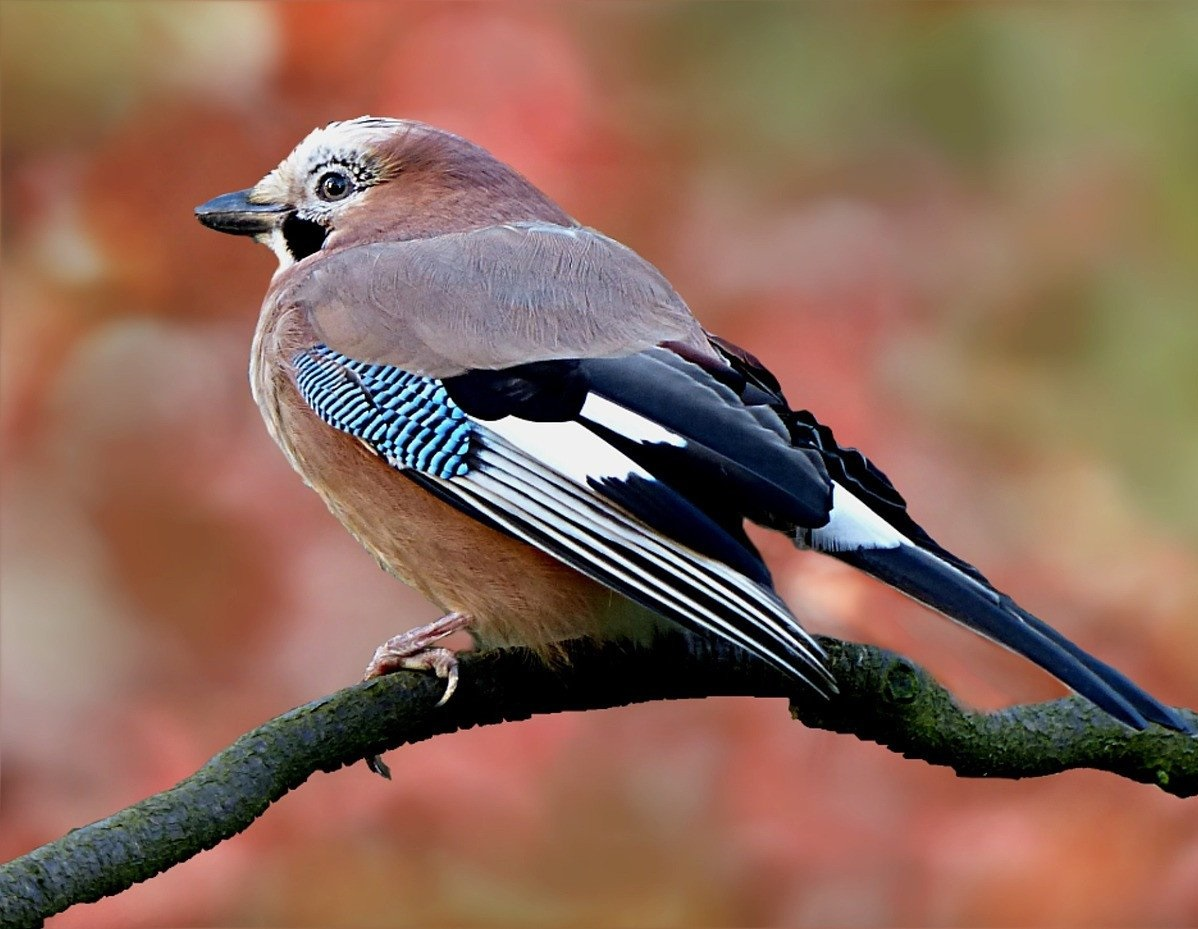
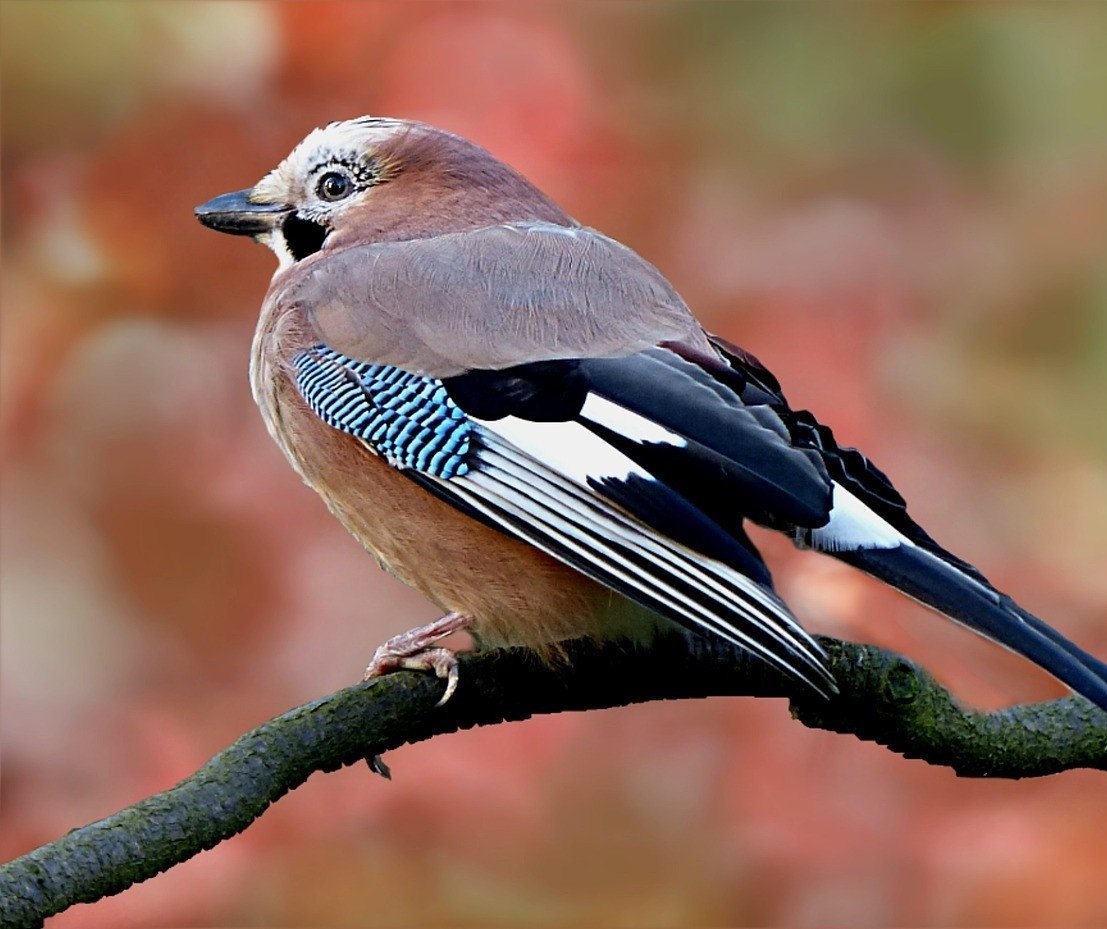
zmiana interfejsu na język polski

diff --git a/config.js b/config.js
@@ -4,121 +4,121 @@ export const BIRDS = [
         name: 'Skowronek',
         latinName: 'Alauda arvensis',
         photo: require('~/assets/birdPhotos/skowronek.jpg'),
-        desc: "Jest jednym najbardziej znanych ptaków. Rozpoznawalność zawdzięcza powszechności występowania oraz donośnemu śpiewowi, który rozbrzmiewa niemal nad każdym polem przez całą wiosnę.",
+        desc: "Jest jednym najbardziej znanych ptaków. Rozpoznawalność zawdzięcza powszechności występowania oraz donośnemu śpiewowi, który rozbrzmiewa niemal nad każdym polem przez całą wiosnę. Długość ciała skowronka to 18-19 cm. Skromnie ubarwiony ptak nieco większy od wróbla. Upierzenie brunatnoszare, ciemno plamkowane z wierzchu, spód białawy z kreskowaną piersią. Jego śpiew to przepiękna melodia złożona z wielu zawiłych zwrotek. Swoje granie rozpoczyna nie od razu po starcie z ziemi. Śpiew słychać dopiero na wysokości około 10-20 metrów. Wówczas zawisa w powietrzu, a następnie po wykonaniu całego repertuaru, jaki miał zaplanowany, wznosi się jeszcze wyżej i, co ciekawe, dalej śpiewa. Właśnie ta umiejętność, śpiewania na wdechu oraz wydechu, pozwala mu wznosić się nawet na 100 – 200 metrów.",
     },
     {
         name: 'Krzyżówka',
         latinName: 'Anas platyrhynchos',
         photo: require('~/assets/birdPhotos/krzyżówka.jpg'),
-        desc: "Gatunek dużego ptaka wodnego z rodziny kaczkowatych. Jest to najpospolitszy i najszerzej rozpowszechniony gatunek kaczki.",
+        desc: "Gatunek dużego ptaka wodnego z rodziny kaczkowatych (Anatidae). Jest to najpospolitszy i najszerzej rozpowszechniony gatunek kaczki. Zasiedla większość półkuli północnej, ale została introdukowana do południowo-wschodniej Australii oraz na Nową Zelandię. Nie jest zagrożona. W Polsce gatunek łowny w okresie od 1 września do 31 grudnia. Od krzyżówki pochodzą kaczki domowe. W locie ujawniają się granatowe, biało obrzeżone na górze i krawędzi skrzydła lusterka. Poza tym obie płcie mają pomarańczowe nogi.",
     },
     {
         name: 'Gęś białoczelna',
         latinName: 'Anser albifrons',
         photo: require('~/assets/birdPhotos/gęś białoczelna.jpg'),
-        desc: "Gatunek dużego, wędrownego ptaka wodnego z rodziny kaczkowatych, zamieszkujący północną Eurazję i Amerykę Północną.",
+        desc: "Gatunek dużego, wędrownego ptaka wodnego z rodziny kaczkowatych (Anatidae), zamieszkujący północną Eurazję i Amerykę Północną. Przeloty w lutym–maju i wrześniu–grudniu. Zimuje w zachodniej i południowej Europie, południowo-zachodniej, południowej i wschodniej Azji, na zachodnich wybrzeżach i południu USA oraz w Meksyku. W Polsce pojawia się licznie podczas przelotów, na północy i zachodzie kraju; zimuje głównie na zachodzie kraju. Daje płodne mieszańce z gęsiami domowymi, np. gęsi pskowskie łyse (łyse – od białej plamy na czole).",
     },
     {
         name: 'Gęś zbożowa',
         latinName: 'Anser fabalis',
         photo: require('~/assets/birdPhotos/gęś zbożowa.jpg'),
-        desc: "Gatunek dużego wędrownego ptaka wodnego z rodziny kaczkowatych. Zamieszkuje tundrę, lasotundrę i tajgę Eurazji.",
+        desc: "Gatunek dużego wędrownego ptaka wodnego z rodziny kaczkowatych (Anatidae). Zamieszkuje tundrę, lasotundrę i tajgę Eurazji. Zimuje plamowo w pasie od zachodniej Europy po Japonię. Nie jest zagrożony wyginięciem. Samiec i samica, a także osobniki młodociane ubarwione są jednakowo. Samce są jednak większe od samic. Ogólnie ubarwiona szarobrązowo, na grzbiecie i bokach poprzeczne jasne prążki. Podogonie i ogon biały. Łapy pomarańczowe, dziób czarny u nasady i na końcu z pomarańczowymi (ich wielkość zależy od podgatunku) plamami. W locie widać z przodu ciemnoszare skrzydła.",
     },
     {
         name: 'Jerzyk',
         latinName: 'Apus apus',
         photo: require('~/assets/birdPhotos/jerzyk.jpg'),
-        desc: "Gatunek średniego ptaka wędrownego z rodziny jerzykowatych. Zamieszkuje niemal całą Europę, dużą część Azji oraz północną Afrykę.",
+        desc: "Gatunek średniego ptaka wędrownego z rodziny jerzykowatych (Apodidae). Zamieszkuje niemal całą Europę, dużą część Azji oraz północną Afrykę. Zimuje w południowej połowie Afryki. W Polsce średnio liczny ptak lęgowy, miejscami liczny. Występuje na terenie całego kraju – najliczniej w dużych miastach. W niektórych częściach kraju, głównie na wschodzie Polski oraz na Mazurach, gnieździ się też w starych lasach (Puszcza Knyszyńska, Puszcza Białowieska, Puszcza Augustowska, Wielkopolski Park Narodowy), a na południu – w skalistych partiach gór: Tatr, Karkonoszy i Gór Bystrzyckich oraz w Ojcowskim Parku Narodowym.",
     },
     {
         name: 'Mewa śmieszka',
         latinName: 'Chroicocephalus ridibundus',
         photo: require('~/assets/birdPhotos/mewa śmieszka.jpg'),
-        desc: "Gatunek średniego, wędrownego ptaka wodnego z rodziny mewowatych. To najpowszechniejsza z małych mew.",
+        desc: "Gatunek średniego, wędrownego ptaka wodnego z rodziny mewowatych (Laridae). To najpowszechniejsza z małych mew. We wszystkich szatach widać biały klin na przednim końcu dłoni. Samiec i samica ubarwione jednakowo. W szacie godowej od marca do sierpnia, a nawet listopada, łatwa do rozpoznania – głowa brązowoczarna, szyja, spód ciała i ogon białe, a grzbiet i skrzydła popielate. Końce lotek czarne, a nogi i dziób czerwone. Wokół oczu mały, wąski, biały pasek, przerwany z przodu.",
     },
     {
         name: 'Kawka',
         latinName: 'Coloeus monedula',
         photo: require('~/assets/birdPhotos/kawka.jpg'),
-        desc: "Gatunek średniej wielkości ptaka synantropijnego z rodziny krukowatych. W Polsce średnio liczny ptak lęgowy.",
+        desc: "Gatunek średniej wielkości ptaka synantropijnego z rodziny krukowatych (Corvidae), blisko spokrewniony z kawką srokatą. Zamieszkuje Eurazję i północno-zachodnią Afrykę. W Polsce średnio liczny ptak lęgowy niżu. Ptak wielkości gołębia, mniejszy niż jakikolwiek gatunek z rodzaju Corvus, do którego kawka jest zaliczana. Obie płcie ubarwione jednakowo. Upierzenie czarne, a boki szyi, głowy i karku łupkowoszare. Na głowie czarna „czapka”. U ptaków młodych tęczówki są brązowawe, u dorosłych zmieniają barwę na srebrzysto-błękitną.",
     },
     {
         name: 'Gołąb skalny',
         latinName: 'Columba livia',
         photo: require('~/assets/birdPhotos/gołąb skalny.jpg'),
-        desc: "Gatunek średniej wielkości ptaka z rodziny gołębiowatych. Żywi się nasionami i odpadkami, bywa też dokarmiany przez ludzi.",
+        desc: "Gatunek ptaka z rodziny gołębiowatych, który w swojej pierwotnej formie zamieszkiwał południową Europę, północną Afrykę oraz zachodnią i centralną Azję. Znany jest z adaptacji do różnorodnych środowisk, obecnie można go spotkać niemal na każdym kontynencie z wyjątkiem Antarktydy. Jego zdolność do przetrwania w różnych warunkach sprawia, że jest jednym z najbardziej rozpowszechnionych ptaków na świecie.",
     },
     {
         name: 'Grzywacz',
         latinName: 'Columba palumbus',
         photo: require('~/assets/birdPhotos/grzywacz.jpg'),
-        desc: "Gatunek średniej wielkości ptaka wędrownego z rodziny gołębiowatych, największy spośród gatunków gołębi występujących w Polsce.",
+        desc: "Gatunek średniej wielkości ptaka wędrownego z rodziny gołębiowatych (Columbidae), największy spośród gatunków gołębi występujących w Polsce. To największy przedstawiciel gołębiowatych w Polsce. Grzywacze to duże gołębie o zaokrąglonej sylwetce i wydatnej piersi. Upierzenie w większości niebieskoszare. Głowa niebieskoszara, na karku widoczna zielono-fioletowa opalizacja. Pióra po bokach szyi ułożone są pasami, co daje wrażenie rowków między rzędami piór; to cecha właściwa wielu ptakom z rodzaju Columba.",
     },
     {
         name: 'Gawron',
         latinName: 'Corvus frugilegus',
         photo: require('~/assets/birdPhotos/gawron.jpg'),
-        desc: "Gatunek dużej wielkości ptaka synantropijnego z rodziny krukowatych. Zamieszkuje niemal całą Europę oraz część Azji.",
+        desc: "Gatunek dużej wielkości ptaka synantropijnego z rodziny krukowatych (Corvidae), zamieszkujący Eurazję. Nie jest zagrożony. Zasiedlił prawie całą Europę, prócz Półwyspu Iberyjskiego, Islandii, północnej Skandynawii i północnej Rosji. Dalej jego areał ciągnie się przez Azję po wybrzeża Oceanu Spokojnego. Populacje z chłodniejszych regionów wykonują regularne migracje na południe – do Środkowej i Zachodniej Europy, najdalej dolatując nad Morze Śródziemne.",
     },
 
     {
         name: 'Kukułka',
         latinName: 'Cuculus canorus',
         photo: require('~/assets/birdPhotos/kukułka.jpg'),
-        desc: "Gatunek średniego ptaka wędrownego z podrodziny kukułek. Jedyny w Europie Środkowej pasożyt lęgowy.",
+        desc: "Gatunek średniego ptaka wędrownego z podrodziny kukułek (Cuculinae) w rodzinie kukułkowatych (Cuculidae). Jedyny w Europie Środkowej pasożyt lęgowy. Zamieszkuje strefę umiarkowaną i zalesioną część Eurazji i Afrykę – od zachodniej Europy i północnej Afryki aż po Kamczatkę i Japonię. W Azji spotykana również na południe od krawędzi strefy tropikalnej. W Europie omija tylko Islandię. W Polsce średnio liczny, ptak lęgowy. Spotkać i usłyszeć można ją na całym niżowym obszarze Polski i w różnych typach krajobrazów – w lasach, zadrzewieniach, na mozaikowo porośniętych drzewami i krzewami terenach rolniczych, ale i w pobliżu trzcinowisk wokół zbiorników wodnych.",
     },
     {
         name: 'Modraszka',
         latinName: 'Cyanistes caeruleus',
         photo: require('~/assets/birdPhotos/modraszka.jpg'),
-        desc: "Gatunek małego, częściowo wędrownego ptaka z rodziny sikor, zamieszkującego całą Europę.",
+        desc: "Gatunek małego, częściowo wędrownego ptaka z rodziny sikor, zamieszkującego całą Europę z wyjątkiem północnej części Skandynawii i północnej Rosji, a także część zachodniej Azji. Przebywa we wszystkich rodzajach lasów, a także parkach, ogrodach i sadach. Nie jest zagrożona wyginięciem, a w większości krajów jest nawet liczna. Łatwo rozpoznawalny ptak o krępej sylwetce i dużej głowie z bardzo krótkim dziobem, przystosowanym do kucia w spróchniałym drewnie, dłubania w korze oraz rozdziobywania nasion i zbierania owadów z liści i kory.",
     },
     {
         name: 'Oknówka',
         latinName: 'Delichon urbicum',
         photo: require('~/assets/birdPhotos/oknówka.jpg'),
-        desc: "Niewielki gatunek ptaka wędrownego z rodziny jaskółkowatych. Rozmnaża się w Europie, zachodniej i środkowej Azji oraz północnej Afryce.",
+        desc: "Niewielki gatunek ptaka wędrownego z rodziny jaskółkowatych (Hirundinidae). Rozmnaża się w Europie, zachodniej i środkowej Azji oraz północnej Afryce, a zimuje w Afryce Subsaharyjskiej oraz południowej i południowo-zachodniej Azji. Żywi się owadami, które złapie w locie. Migruje na obszary, gdzie insekty latające występują obficie. Głowę i wyższe partie ciała ma czarne z niebieskim połyskiem, biały kuper i dolne partie ciała. Występuje zarówno na otwartych terenach, jak i w pobliżu siedzib ludzkich. Z wyglądu jest podobny do dwóch innych gatunków z rodzaju Delichon, które są endemiczne dla wschodniej i południowej Azji. Posiada dwa powszechnie uznawane podgatunki.",
     },
     {
         name: 'Łyska',
         latinName: 'Fulica atra',
         photo: require('~/assets/birdPhotos/łyska.jpg'),
-        desc: "Gatunek średniej wielkości ptaka wodnego z rodziny chruścieli. Zamieszkuje zachodnią i południową Europę.",
+        desc: "Gatunek średniej wielkości ptaka wodnego z rodziny chruścieli (Rallidae). W zachodniej i południowej części zasięgu osiadły i koczujący, północne populacje migrują jesienią na południe lub południowy zachód. Nie jest zagrożony wyginięciem. Brak dymorfizmu płciowego, choć samce są nieco większe od samic. Upierzenie dorosłych łupkowoczarne z nagą, podobnie jak dziób, białą blaszką rogową na czole, od której pochodzi polska nazwa gatunku. Palce otoczone karbowanymi płatkami skórnymi, łuski na nogach zielonosiwej barwy. Młode jaśniejsze z mniejszą i ciemną blaszką na czole, jasnoszarą szyją i piersią, czarnoszarym grzbietem, pisklęta ciemne z żółtą głową, białą brwią, czerwoną plamą na czole, o dziobie czerwonym u nasady, a reszcie białej z czarną kropką na końcu.",
     },
     {
         name: 'Sójka',
         latinName: 'Garrulus glandarius',
         photo: require('~/assets/birdPhotos/sójka.jpg'),
-        desc: "Gatunek średniej wielkości ptaka z rodziny krukowatych. Zamieszkuje całą Europę i znaczną część Azji.",
+        desc: "Gatunek średniej wielkości ptaka z rodziny krukowatych (Corvidae), zamieszkujący Eurazję i północno-zachodnią Afrykę. Nie jest zagrożony. Zamieszkuje niemal całą Eurazję i północno-zachodnią Afrykę. W Europie areał na północy kończy się w okolicach koła podbiegunowego. Gatunek częściowo osiadły; populacje z północy i wschodu podejmują czasami dalsze wędrówki na południowy zachód; mogą wtedy tworzyć wielkie, choć często luźne stada, liczące kilkaset do tysiąca osobników. W Polsce rozpowszechniony w całym kraju, liczny ptak lęgowy.",
     },
     {
         name: 'Słowik szary',
         latinName: 'Luscinia luscinia',
         photo: require('~/assets/birdPhotos/słowik szary.jpg'),
-        desc: "Gatunek małego ptaka śpiewającego z rodziny muchołówkowatych. Jeden z najlepszych ptasich śpiewaków.",
+        desc: "Gatunek małego ptaka śpiewającego z rodziny muchołówkowatych (Muscicapidae). Ptaki z tej grupy są najznakomitszymi śpiewakami. Śpiew ich jest donośny, niezwykle urozmaicony, o dużej skali tonów. Słowik przylatuje na tereny Polski w kwietniu-maju, a odlatuje do Afryki w sierpniu-wrześniu. Zamieszkuje południową część Półwyspu Skandynawskiego, Europę wschodnią i część środkowej. Zimuje w południowo-wschodniej Afryce. W Polsce to średnio liczny ptak lęgowy. Przez kraj przebiega zachodnia linia zasięgu tego gatunku. Brak wyraźnego dymorfizmu płciowego.",
     },
     {
         name: 'Słowik rdzawy',
         latinName: 'Luscinia megarhynchos',
         photo: require('~/assets/birdPhotos/słowik rdzawy.jpg'),
-        desc: "Gatunek małego wędrownego ptaka z rodziny muchołówkowatych. Zamieszkuje Europę kontynentalną i Bliski Wschód.",
+        desc: "Gatunek małego wędrownego ptaka z rodziny muchołówkowatych (Muscicapidae). Zasiedla Europę kontynentalną na zachód od linii Wisły i Ukrainy – zachodnią i południową, a oprócz tego Bliski Wschód (zwłaszcza Azję Mniejszą), Kaukaz, Azję Środkową i północno-zachodnią Afrykę. Słowik rdzawy nie jest spotykany w północno-zachodniej Europie, Skandynawii i w większości wschodniej Europy. Nieco większy i smuklejszy od wróbla. Mimo pięknego śpiewu słowiki są dość skromnie upierzone w barwy zeschłych liści. Mają brązowe upierzenie z ciemnorudym ogonem i kuprem. Obie płcie ubarwione podobnie.",
     },
     {
         name: 'Sroka',
         latinName: 'Pica pica',
         photo: require('~/assets/birdPhotos/sroka.jpg'),
-        desc: "Gatunek średniej wielkości ptaka z rodziny krukowatych. W Polsce szeroko rozpowszechniony i jeden z najlepiej znanych ptaków.",
+        desc: "Gatunek średniej wielkości ptaka z rodziny krukowatych (Corvidae), zamieszkujący Eurazję. Nie jest zagrożony. Zamieszkuje całą Europę, dużą część Azji . Izolowana populacja występuje na Kamczatce w Rosji. W Polsce szeroko rozpowszechniony, jeden z najlepiej znanych ptaków, dość częsty ptak lęgowy na nizinach. Najbardziej powszechna na ziemi lubuskiej i w środkowej części Małopolski. Najrzadziej spotykana na Mazurach – tu mała liczebność srok związana jest z dużą lesistością obszarów. Ptak o smukłej sylwetce z długim ogonem i charakterystycznym czarno-białym upierzeniu. Obie płci ubarwione jednakowo, ale samiec jest zwykle nieco większy i cięższy od samicy, ma dłuższy ogon. Bardzo długi, zaostrzony ogon z piórami o stopniowanej długości.",
     },
     {
         name: 'Brzegówka',
         latinName: 'Riparia riparia',
         photo: require('~/assets/birdPhotos/brzegówka.jpg'),
-        desc: "Gatunek niewielkiego ptaka wędrownego z rodziny jaskółkowatych. Zamieszkuje niemal całą Eurazję, Maghreb i dolinę Nilu.",
+        desc: "Gatunek niewielkiego ptaka wędrownego z rodziny jaskółkowatych (Hirundinidae). Zamieszkuje niemal całą Eurazję, Maghreb i dolinę Nilu w północnej Afryce oraz Amerykę Północną. Przeloty w kwietniu-maju i sierpniu-wrześniu. Wędruje na duże dystanse. Zimuje w Afryce na południe od Sahary, Indiach, w Azji Południowo-Wschodniej oraz Ameryce Południowej. W Polsce średnio liczny ptak lęgowy niżu, lokalnie może być liczny lub przeciwnie – nieliczny. To najmniejsza z polskich jaskółek (mniejsza od wróbla). Spotkać można ją w większości kraju, choć występuje nierównomiernie, a w górach nie pojawia się na terenach położonych wyżej niż 600 m n.p.m.",
     },
     {
         name: 'Kowalik',
         latinName: 'Sitta europaea',
         photo: require('~/assets/birdPhotos/kowalik.jpg'),
-        desc: "Gatunek niewielkiego, osiadłego ptaka z rodziny kowalików. Zamieszkuje Eurazję oraz północno-zachodnią Afrykę.",
+        desc: "Gatunek niewielkiego, osiadłego ptaka z rodziny kowalików (Sittidae), zamieszkujący Eurazję oraz północno-zachodnią Afrykę. Nie jest zagrożony. Zamieszkuje licznie lasy Europy, Maghreb, Azję Mniejszą i znaczną część umiarkowanej Azji do Pacyfiku i granicy tropików. W Polsce szeroko rozpowszechniony, średnio liczny ptak lęgowy. Ptak wielkości wróbla. Krępa sylwetka ze stosunkowo dużą głową, krótkim ogonem i mocnym, dłutowatym dziobem podobnym do dzioba dzięciołów. Obie płci podobnych rozmiarów, ubarwione prawie jednakowo, choć samiec w porównaniu z samicą ma bardziej rdzawy spód ciała i ciemnokasztanowe boki ciała z wiśniowym odcieniem.",
     },
 ];

diff --git a/screens/Detect.tsx b/screens/Detect.tsx
@@ -1,6 +1,5 @@
 import React, {useEffect, useRef, useState} from "react";
-import {ActivityIndicator, Image, Text, TouchableOpacity, View} from "react-native";
-import {Audio} from "expo-av";
+import {ActivityIndicator, Image, PermissionsAndroid, Text, TouchableOpacity, View} from "react-native";
 import Ionicons from "react-native-vector-icons/Ionicons";
 import * as Animatable from "react-native-animatable";
 import Toast from "react-native-toast-message";
@@ -40,15 +39,15 @@ export default function Detect({ navigation }) {
                 require("../model/group1-shard3of4.bin"),
                 require("../model/group1-shard4of4.bin")
             ];
-            showToast("info", "Loading model...", "Please wait for the model to load");
+            showToast("info", "Ładowanie modelu...", "Zaczekaj, aż model się załaduje", false);
             try {
                 const loadedModel = await tf.loadGraphModel(bundleResourceIO(modelJson, modelWeights));
                 setModel(loadedModel);
                 setButtonDisabled(false);
-                showToast("success", "Model loaded!", "Model is ready for prediction");
+                showToast("success", "Model załadowany!", "Model jest gotowy do predykcji");
             } catch (error) {
                 console.error("Failed to load model", error);
-                showToast("error", "Error loading model", "Please try again later");
+                showToast("error", "Błąd przy ładowaniu modelu", "Spróbuj ponownie");
             } finally {
                 setIsBusy(false);
             }
@@ -57,20 +56,20 @@ export default function Detect({ navigation }) {
         loadModel();
     }, []);
 
-    const showToast = (type: string, text1: string, text2: string) => {
+    const showToast = (type: string, text1: string, text2: string, autoHide: boolean=true) => {
         Toast.show({
             type,
             text1,
             text2,
-            position: "bottom"
+            position: "bottom",
+            autoHide: autoHide
         });
     };
 
     const startRecording = async () => {
         try {
-            const perm = await Audio.requestPermissionsAsync();
-            if (perm.status === "granted") {
-                setIsRecording(true);
+            const perm = await PermissionsAndroid.request(PermissionsAndroid.PERMISSIONS.RECORD_AUDIO);
+            if (perm === 'granted') {
                 AudioRecord.init({
                     sampleRate: 16000,
                     channels: 1,
@@ -79,12 +78,14 @@ export default function Detect({ navigation }) {
                     wavFile: 'audio.wav'
                 });
                 recording.current = [];
-        
+                
                 AudioRecord.on('data', data => {
                     const samples = new Int8Array(Buffer.from(data, 'base64'));
                     recording.current.push(...samples);
                 });
-
+                
+                setIsRecording(true);
+                showToast("info", "Nagrywanie...", "Staraj się nagrywać jak najbliżej ptaka");
                 AudioRecord.start();
                 setRecordingStartTime(Date.now());
             }
@@ -98,42 +99,35 @@ export default function Detect({ navigation }) {
         if (isRecording) {
             const elapsedTime = Date.now() - recordingStartTime;
             if (elapsedTime < MINIMUM_RECORDING_DURATION) {
-                showToast("error", "Recording is too short", `Please record for at least ${MINIMUM_RECORDING_DURATION / 1000} seconds.`);
+                showToast("error", "Nagranie za krótkie", `Nagraj conajmniej ${MINIMUM_RECORDING_DURATION / 1000}-sekundowe nagranie.`);
                 return;
             }
 
-            const path = await AudioRecord.stop();
-            setRecpath(path);
             setButtonDisabled(true);
             setShowBird(false);
             setPrediction(undefined);
+            const path = await AudioRecord.stop();
+            setRecpath(path);
             setIsRecording(false);
             setAudioRecorded(true);
         }
     };
 
-    const getSpectrogram = async (samples) => {
+    const getSpectrogram = (samples) => {
         const stft = tf.signal.stft(tf.tensor1d(samples), 2048, 512, 2048);
         const magnitude = tf.abs(stft);
         const amin = tf.scalar(2e-5);
         const refValue = magnitude.max();
 
-        // log_spec = 10.0 * np.log10(np.maximum(amin, magnitude2))
-        // log_spec -= 10.0 * np.log10(np.maximum(amin, ref_value))
-        // db = np.maximum(log_spec, log_spec.max() - top_db)
-
         const logSpec = tf.tidy(() => tf.maximum(amin, magnitude).log().mul(tf.scalar(10))
         .sub(tf.maximum(amin, refValue).log().mul(tf.scalar(10))));
-
         const db = tf.maximum(logSpec, logSpec.max().sub(tf.scalar(80)));
 
         const numBins = db.shape[1];
-        const logIndices = tf.linspace(1, Math.log(numBins + 1), numBins).exp().sub(1).toInt();
-
+        const logIndices = tf.linspace(1, Math.log(numBins + 1), numBins).sub(1).toInt();
         const logScale = tf.gather(db, logIndices, 1);
 
         const specTransform = tf.image.flipLeftRight(logScale.reshape([1, logScale.shape[0], logScale.shape[1], 1])).reshape([logScale.shape[0], logScale.shape[1]]);
-
         const spectrogram = tf.image.resizeBilinear(specTransform.transpose().reshape([specTransform.shape[1], specTransform.shape[0], 1]), [224, 224]);
 
         const minVal = spectrogram.min();
@@ -145,11 +139,12 @@ export default function Detect({ navigation }) {
 
     const predictLabel = async () => {
         try {
-            const samples = await preprocessWaveform(new Int8Array(recording.current));
-            recording.current = [];
+            setIsBusy(true);
+            Toast.hide();
 
-            await tf.nextFrame();
-            const inputTensor = await getSpectrogram(samples);
+            const samples = preprocessWaveform(new Int8Array(recording.current));
+            recording.current = [];
+            const inputTensor = getSpectrogram(samples);
 
             await tf.nextFrame();
             const output = model.predict(inputTensor);
@@ -157,21 +152,22 @@ export default function Detect({ navigation }) {
             console.log(predictedClass.dataSync()[0]);
 
             setPrediction(predictedClass);
-            showToast("success", "Prediction complete!", "Bird identified");
+            showToast("success", "Predykcja gotowa!", "Ptak zidentyfikowany");
         } catch (error) {
             console.error("Prediction error:", error);
             if (error.message.includes("No valid frames")) {
-                showToast("error", "Audio too short", "Please record longer audio.");
+                showToast("error", "Nagranie za krótkie", "Nagraj dłuższe nagranie.");
             } else {
-                showToast("error", "Prediction failed", "Please try again later.");
+                showToast("error", "Predykcja nie udała się", "Spróbuj ponownie.");
             }
         } finally {
             setIsBusy(false);
             setButtonDisabled(false);
+            setAudioRecorded(false);
         }
     };
 
-    const preprocessWaveform = async (arrInt8) => {
+    const preprocessWaveform = (arrInt8) => {
         const arrInt16 = new Int16Array(
             arrInt8.reduce((acc, _, i) => {
               if (i % 2 === 0) {
@@ -197,16 +193,14 @@ export default function Detect({ navigation }) {
 
 
     useEffect(() => {
-        if (audioRecorded == true) {
-            setIsBusy(true);
-            showToast("info", "Processing prediction...", "Please wait for the result");
+        if (audioRecorded) {
+            showToast("info", "Przetwarzanie nagrania...", "Zaczekaj na wynik", false);
             predictLabel();
-            setAudioRecorded(false);
         }
     }, [audioRecorded]);
 
     useEffect(() => {
-        if (prediction) setShowBird(true);
+        if (recPath && prediction) setShowBird(true);
     }, [prediction]);
 
     useEffect(() => {
@@ -225,8 +219,8 @@ export default function Detect({ navigation }) {
     return (
         <View className="flex-1 items-center justify-center bg-primary">
             <View className="justify-center items-center mb-10">
-                <Text className="text-white text-4xl font-bold text-center mb-1">RECORD</Text>
-                <Text className="text-white text-4xl font-bold text-center mb-10">THE BIRD</Text>
+                <Text className="text-white text-4xl font-bold text-center mb-1">NAGRAJ</Text>
+                <Text className="text-white text-4xl font-bold text-center mb-10">PTAKA</Text>
                 {isRecording ? (
                     <View className="flex-row space-x-1 h-14">
                         <Animatable.View className="w-1 bg-white" animation={bouncingAnimation} iterationCount="infinite" duration={400} delay={200} />
@@ -243,7 +237,7 @@ export default function Detect({ navigation }) {
 
             <TouchableOpacity
                 disabled={buttonDisabled}
-                onPress={isRecording ? stopRecording : startRecording}
+                onPress={isRecording === true ? stopRecording : startRecording}
                 className="justify-center items-center bg-primary"
             >
                 <View className="w-56 h-56 rounded-full justify-center items-center bg-primary border-2 border-dashed border-white">

diff --git a/screens/BirdDetails.tsx b/screens/BirdDetails.tsx
@@ -31,7 +31,7 @@ export default function BirdDetails({ route }) {
     return (
         <View className="flex-1" style={{ backgroundColor: theme.colors.primary }}>
             <View className="items-center">
-                <View className="w-64 h-64 rounded-full overflow-hidden border-4 border-black">
+                <View style={{zIndex: 100}} className="w-64 h-64 rounded-full overflow-hidden border-4 border-black">
                     <Image source={birdData.photo} className="w-full h-full" />
                 </View>
             </View>
